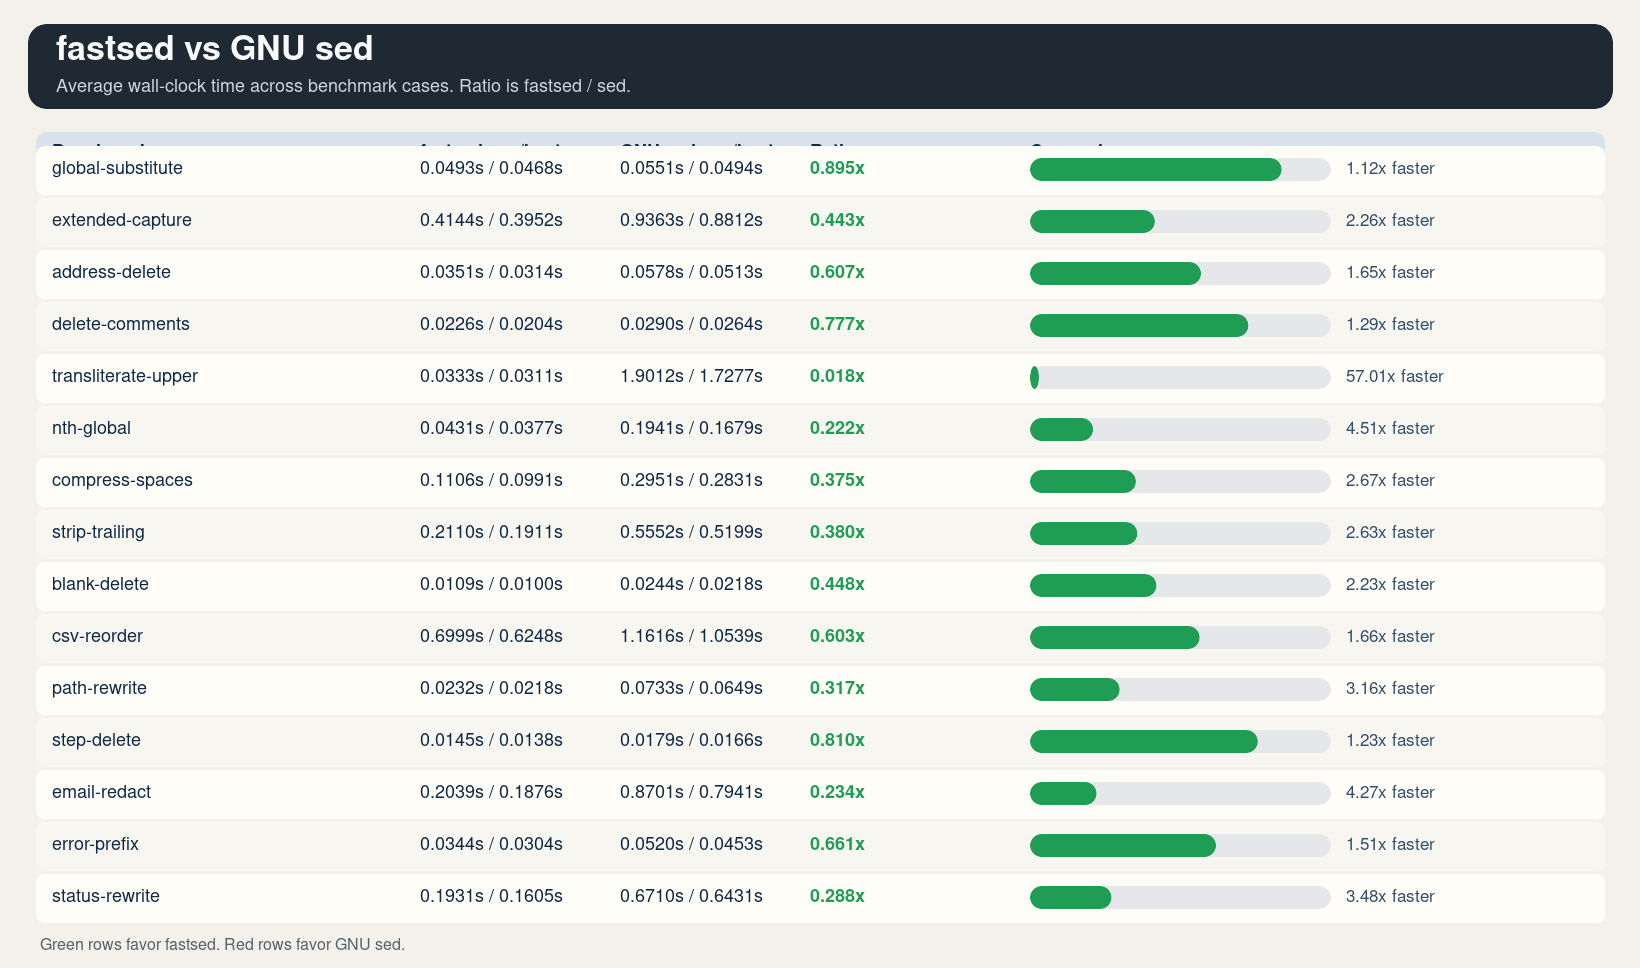
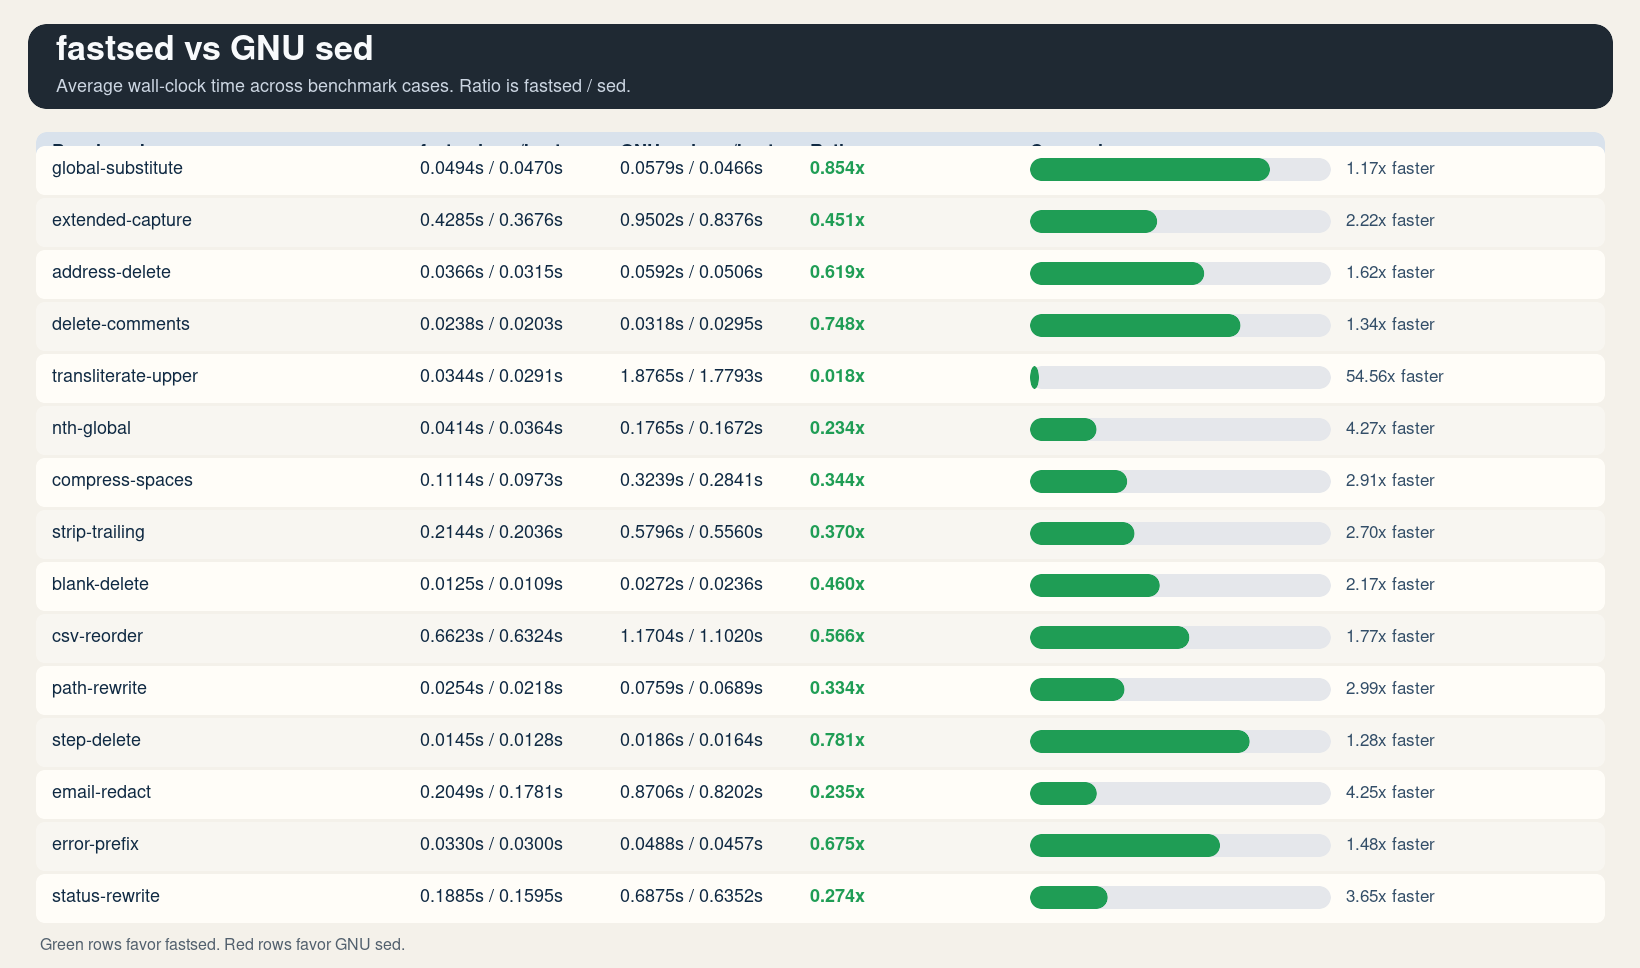
Speed up literal substitution fast path

diff --git a/Source/EngineHelpers.cpp b/Source/EngineHelpers.cpp
@@ -110,34 +110,57 @@ static bool do_subst_literal(const RE& re, const SubstOpt& s, string& ps) {
     const string& needle = re.src;
     if (needle.empty()) return false;
 
-    size_t pos = ps.find(needle);
-    if (pos == string::npos) return false;
-
     string result;
-    result.reserve(ps.size() + (repl_lit.size() > needle.size() ? ps.size() / std::max<size_t>(needle.size(), 1) : 0));
-
-    size_t prev = 0;
-    int mnum = 0;
-
-    while (pos != string::npos) {
-        ++mnum;
-        bool do_it = s.global ? (s.nth == 0 || mnum >= s.nth)
-                              : (mnum == (s.nth > 0 ? s.nth : 1));
-
-        if (do_it) {
-            result.append(ps, prev, pos - prev);
-            result.append(repl_lit);
-            prev = pos + needle.size();
-            if (!s.global) break;
-        } else {
-            result.append(ps, prev, (pos - prev) + needle.size());
-            prev = pos + needle.size();
-        }
-
-        pos = ps.find(needle, prev);
+    const size_t nlen = needle.size();
+    const size_t extra = repl_lit.size() > nlen ? repl_lit.size() - nlen : 0;
+    if (extra != 0 && s.global) {
+        result.reserve(ps.size() + (ps.size() / nlen + 1) * extra);
+    } else {
+        result.reserve(ps.size());
     }
 
-    result.append(ps, prev, string::npos);
+    const char* cur = ps.data();
+    const char* const end = cur + ps.size();
+    const char  first = needle.front();
+    const int   nth   = s.nth > 0 ? s.nth : 1;
+    int         mnum  = 0;
+    bool        hit_replacement = false;
+
+    while (cur < end) {
+        const char* hit = static_cast<const char*>(
+            std::memchr(cur, first, static_cast<size_t>(end - cur)));
+
+        while (hit && static_cast<size_t>(end - hit) >= nlen &&
+               std::memcmp(hit, needle.data(), nlen) != 0) {
+            hit = static_cast<const char*>(
+                std::memchr(hit + 1, first, static_cast<size_t>(end - (hit + 1))));
+        }
+
+        if (!hit) {
+            result.append(cur, end - cur);
+            break;
+        }
+
+        ++mnum;
+        bool do_it = s.global ? (s.nth == 0 || mnum >= s.nth)
+                               : (mnum == nth);
+
+        if (do_it) {
+            result.append(cur, hit - cur);
+            result.append(repl_lit);
+            cur = hit + nlen;
+            hit_replacement = true;
+            if (!s.global) {
+                result.append(cur, end - cur);
+                break;
+            }
+        } else {
+            result.append(cur, (hit - cur) + nlen);
+            cur = hit + nlen;
+        }
+    }
+
+    if (!hit_replacement) return false;
     ps = std::move(result);
     return true;
 }

diff --git a/Source/Engine.cpp b/Source/Engine.cpp
@@ -315,7 +315,7 @@ FC Engine::run(LineSource& src) {
 
         // ── =: print line number ──────────────────────────────
         case '=':
-            out->write(std::to_string(lineno));
+            out->write_long(lineno);
             out->put('\n');
             break;
 